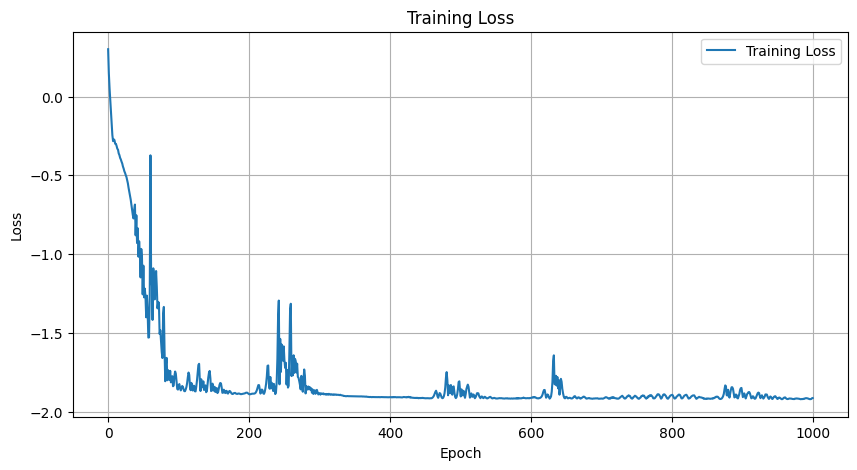
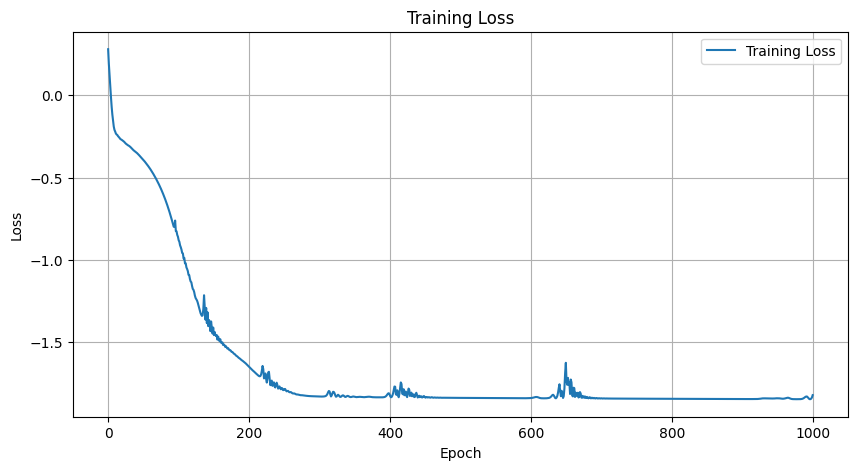
update plots for exercise 2

diff --git a/exercise2.py b/exercise2.py
@@ -10,21 +10,19 @@ class BNN(nn.Module):
     def __init__(self, input_dim, output_dim, hidden_dim=64):
         super().__init__()
         self.fc1 = nn.Linear(input_dim, hidden_dim)
-        self.fc2 = nn.Linear(hidden_dim, hidden_dim)
         self.fc_mean = nn.Linear(hidden_dim, output_dim)
         self.fc_log_var = nn.Linear(hidden_dim, output_dim)
 
     def forward(self, x):
         x = F.relu(self.fc1(x))
-        x = F.relu(self.fc2(x))
         mean = self.fc_mean(x)
         log_var = self.fc_log_var(x)
-        return mean, log_var
+        return mean, torch.exp(log_var)
 
 
-def generate_training_data(device, num_samples=100):
+def generate_data(device="cpu", lower=0.0, upper=1.0, num_samples=100):
     # Generate synthetic training data with a sine wave and gaussian noise with variance of 0.1
-    x = np.linspace(0, 1, num_samples)
+    x = np.linspace(lower, upper, num_samples)
     sine_wave = np.sin(2 * np.pi * x)
     noised_sine_wave = sine_wave + np.random.normal(0, 0.1, num_samples)
     x = torch.tensor(x, dtype=torch.float32).unsqueeze(-1).to(device)
@@ -35,22 +33,11 @@ def generate_training_data(device, num_samples=100):
 
 
 def main():
-    device = torch.device("cuda" if torch.cuda.is_available() else "cpu")
+    device = "cuda" if torch.cuda.is_available() else "cpu"
     # Generate training data
-    x_train, y_train, y_clean = generate_training_data(device)
+    x_train, y_train, y_clean = generate_data(device)
 
-    # Plot the training data
-    # plt.figure(figsize=(10, 5))
-    # plt.plot(x.cpu().numpy(), y.cpu().numpy(), "o", label="Training Data")
-    # plt.title("Training Data")
-    # plt.xlabel("Input")
-    # plt.ylabel("Output")
-    # plt.legend()
-    # plt.grid()
-    # plt.savefig("plots/exercise2_training_data.png", bbox_inches="tight")
-    # plt.show()
-
-    # Define the Bayesian Neural Network
+    # Define the Bayesian Neural Network an optimizer
     input_dim = 1
     output_dim = 1
     model = BNN(input_dim, output_dim).to(device)
@@ -59,16 +46,15 @@ def main():
     num_epochs = 1000
     losses = []
     for epoch in range(num_epochs):
-        # Forward pass
-        mean, log_var = model(x_train)
-        loss = criterion(mean, y_train, torch.exp(log_var))
-
-        # Backward pass and optimization
+        model.train()
         optimizer.zero_grad()
+
+        mean_pred, var_pred = model(x_train)
+        loss = criterion(mean_pred, y_train, var_pred)
         loss.backward()
         optimizer.step()
-        losses.append(loss.item())
 
+        losses.append(loss.item())
         if epoch % 100 == 0:
             print(f"Epoch [{epoch}/{num_epochs}], Loss: {loss.item():.4f}")
 
@@ -82,29 +68,30 @@ def main():
     plt.grid()
     plt.savefig("plots/exercise2_training_loss.png", bbox_inches="tight")
 
+    x_test, _, _ = generate_data(device, num_samples=1000)
     model.eval()
     with torch.no_grad():
-        mean, log_var = model(x_train)
+        mean_pred, var_pred = model(x_test)
 
-    mean = mean.squeeze().cpu().numpy()
-    log_var = log_var.squeeze().cpu().numpy()
+    mean_pred = mean_pred.squeeze().cpu().numpy()
+    var_pred = var_pred.squeeze().cpu().numpy()
     x_train = x_train.squeeze().cpu().numpy()
     y_train = y_train.squeeze().cpu().numpy()
-    var_pred = np.exp(log_var)
+    x_test = x_test.squeeze().cpu().numpy()
     std_pred = np.sqrt(var_pred)
-    lower_bound = mean - 2 * std_pred
-    upper_bound = mean + 2 * std_pred
+    lower_bound = mean_pred - 2 * std_pred
+    upper_bound = mean_pred + 2 * std_pred
 
     # Plot the predictions with uncertainty bounds
     plt.figure(figsize=(10, 5))
     plt.plot(
-        x_train,
-        mean,
+        x_test,
+        mean_pred,
         label="Predicted Mean",
         color="orange",
     )
     plt.fill_between(
-        x_train,
+        x_test,
         lower_bound,
         upper_bound,
         color="lightblue",
@@ -118,7 +105,45 @@ def main():
     plt.ylabel("Output")
     plt.legend()
     plt.grid()
-    plt.savefig("plots/exercise2_predictions_with_uncertainty.png", bbox_inches="tight")
+    plt.savefig("plots/exercise2_predictions.png", bbox_inches="tight")
+
+    x_test, _, y_test_clean = generate_data(
+        device, lower=-0.5, upper=1.5, num_samples=1000
+    )
+    with torch.no_grad():
+        mean_pred, var_pred = model(x_test)
+
+    mean_pred = mean_pred.squeeze().cpu().numpy()
+    var_pred = var_pred.squeeze().cpu().numpy()
+    x_test = x_test.squeeze().cpu().numpy()
+    std_pred = np.sqrt(var_pred)
+    lower_bound = mean_pred - 2 * std_pred
+    upper_bound = mean_pred + 2 * std_pred
+
+    # Plot the predictions with uncertainty bounds
+    plt.figure(figsize=(10, 5))
+    plt.plot(
+        x_test,
+        mean_pred,
+        label="Predicted Mean",
+        color="orange",
+    )
+    plt.fill_between(
+        x_test,
+        lower_bound,
+        upper_bound,
+        color="lightblue",
+        alpha=0.5,
+        label="Uncertainty Bounds (2 std)",
+    )
+    plt.plot(x_test, y_test_clean, label="True Function", color="green")
+    plt.plot(x_train, y_train, "o", label="Training Data")
+    plt.title("Bayesian Neural Network Predictions with Uncertainty")
+    plt.xlabel("Input")
+    plt.ylabel("Output")
+    plt.legend()
+    plt.grid()
+    plt.savefig("plots/exercise2_test_predictions.png", bbox_inches="tight")
 
 
 if __name__ == "__main__":
